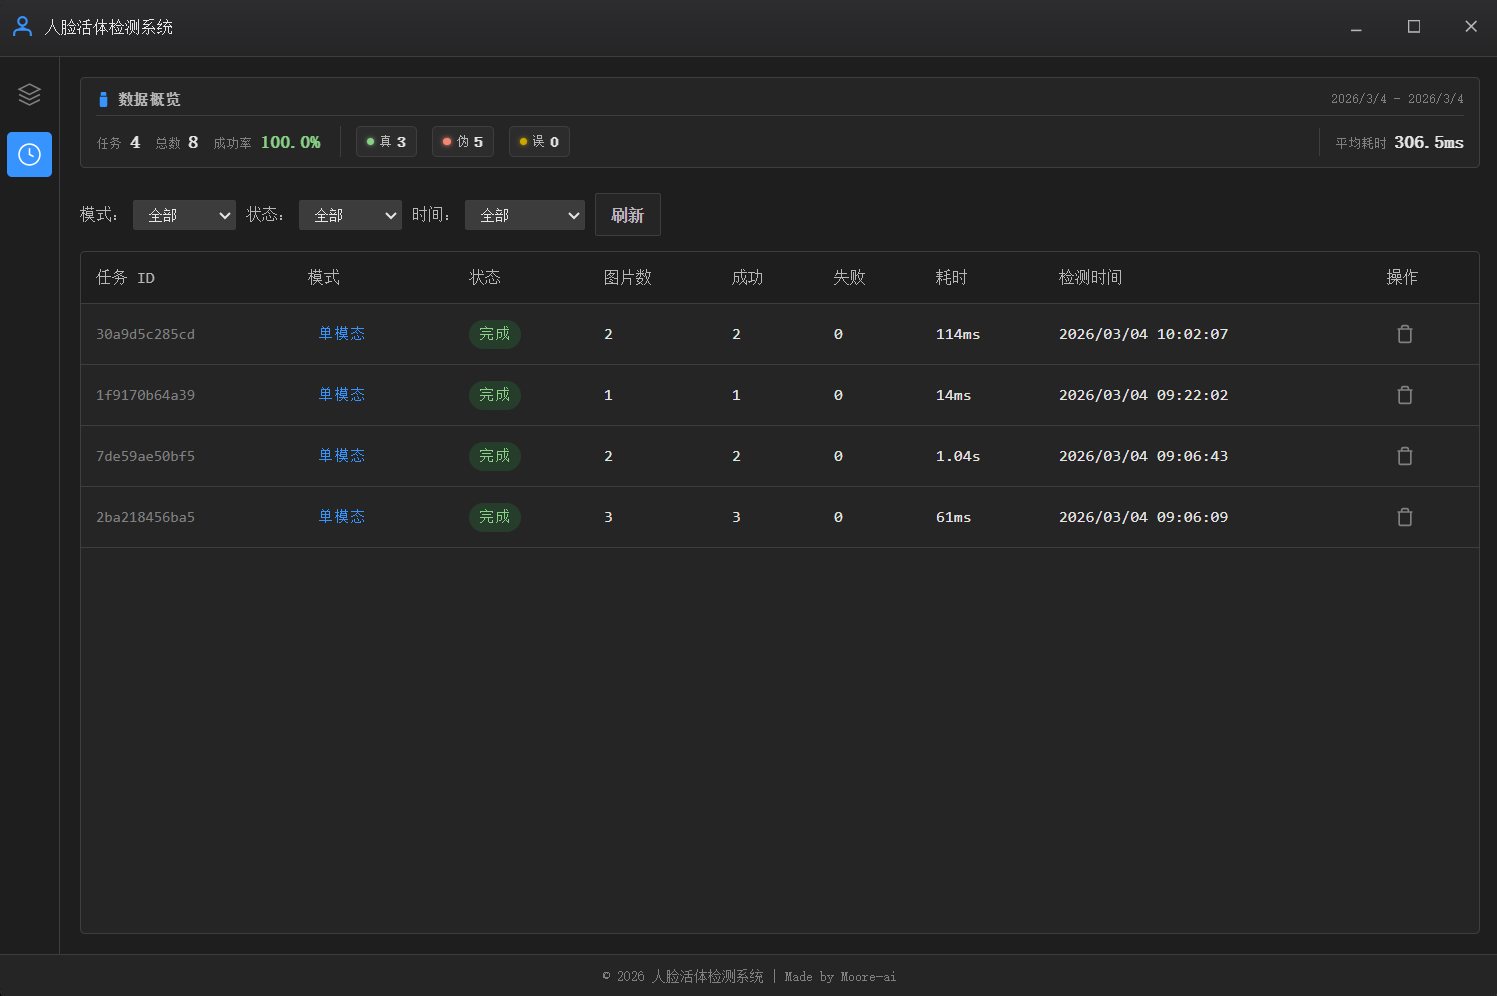
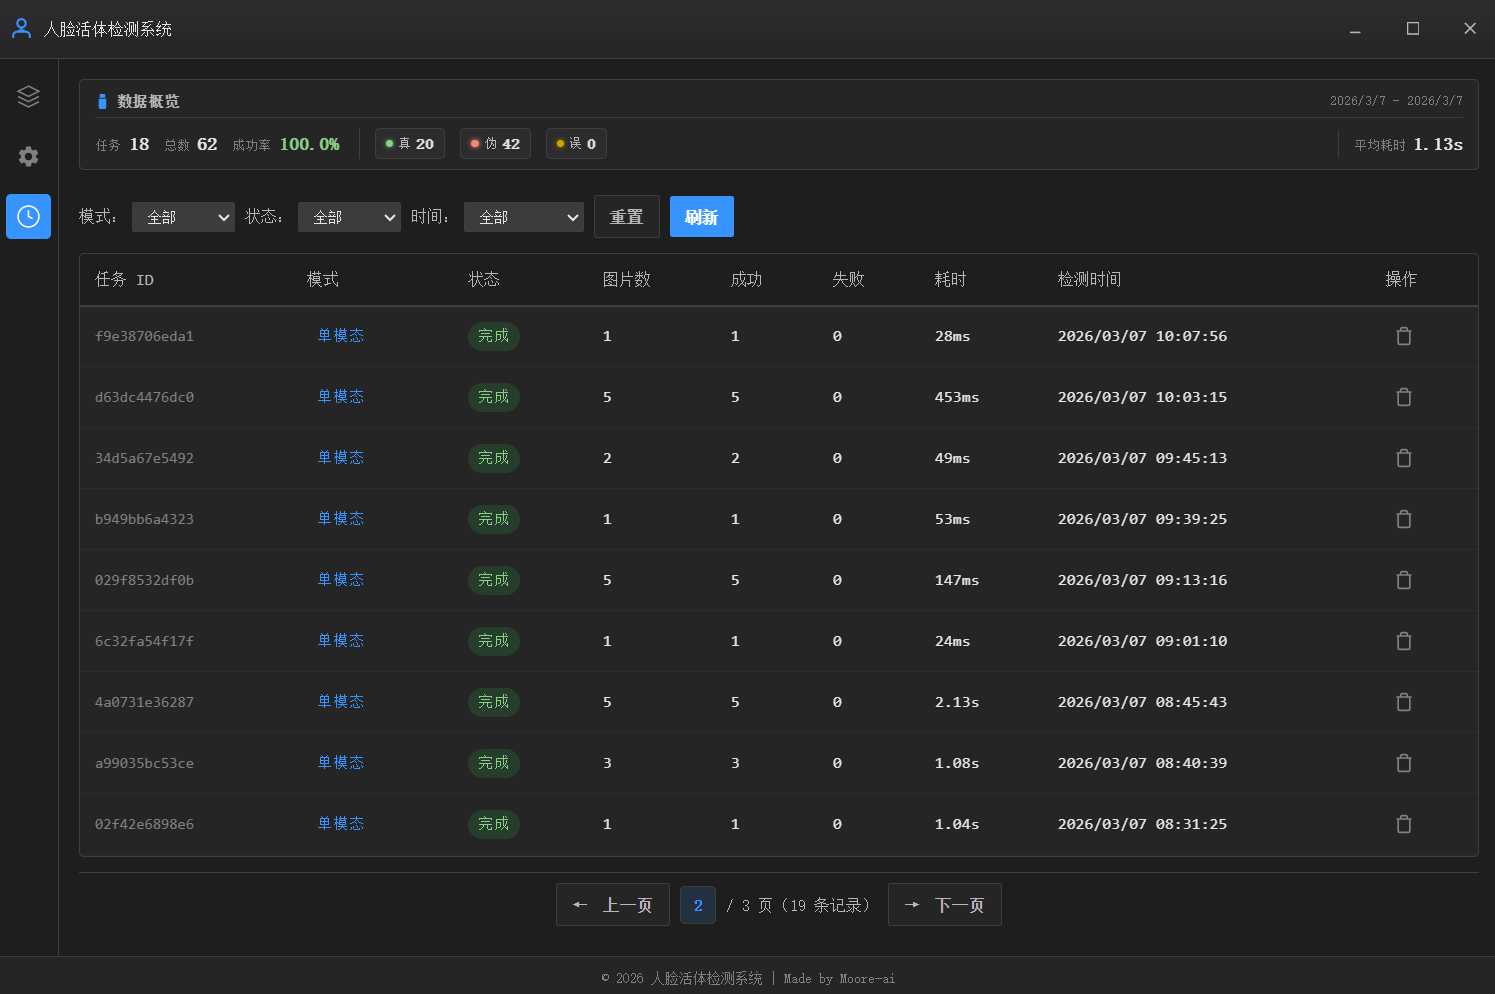
docs: 更新样式方面说明

diff --git a/README.md b/README.md
@@ -21,6 +21,9 @@
 ### 推理历史
 ![推理历史](images/推理历史.png)
 
+### 设置
+![设置](images/设置页面.png)
+
 ## ✨ 功能特性
 
 - 🔬 **双模式检测**：支持单模态（RGB/IR）和融合模式（RGB+IR）
@@ -40,10 +43,12 @@
 - 🛑 **任务取消**：检测过程中可随时取消正在执行的任务，取消后保留已处理的结果
 - ⚙ **设置页面**：支持快捷键绑定、历史记录保留期限设置、本地数据管理等功能
 - ⌨ **全局快捷键**：支持自定义快捷键触发检测、取消任务、清空重置操作，配置持久化保存
+- 🎨 **专业 UI 设计**：使用 MUI 和 Tremor 组件库优化视觉效果，提升专业感和用户体验
+- 📝 **历史记录页码编辑**：分页组件支持直接点击编辑页码，输入后立即跳转，支持数字验证和快速导航
 
 ## 🛠 技术栈
 
-- **前端框架**：React 19
+- **前端框架**：React 18
 - **开发语言**：TypeScript 5.9
 - **构建工具**：Vite 7
 - **桌面框架**：Tauri v2
@@ -359,7 +364,7 @@ API_BASE_URL=http://localhost:8000
 检测任务完成后会自动保存到服务器数据库和本地 store，用户可通过活动栏的历史记录图标查看：
 - **访问方式**：点击左侧活动栏的时钟图标
 - **过滤功能**：支持按模式（单模态/融合）、状态（完成/部分失败/失败）、时间范围筛选
-- **分页浏览**：每页显示 20 条记录，支持翻页
+- **分页浏览**：每页显示 20 条记录，支持翻页，可直接点击页码编辑快速跳转
 - **详情查看**：点击任意任务行可查看详细信息和检测结果
 - **删除功能**：支持删除单条历史记录（API Key 认证即可）
 - **数据存储**：所有历史记录存储在服务器端，便于跨设备访问
